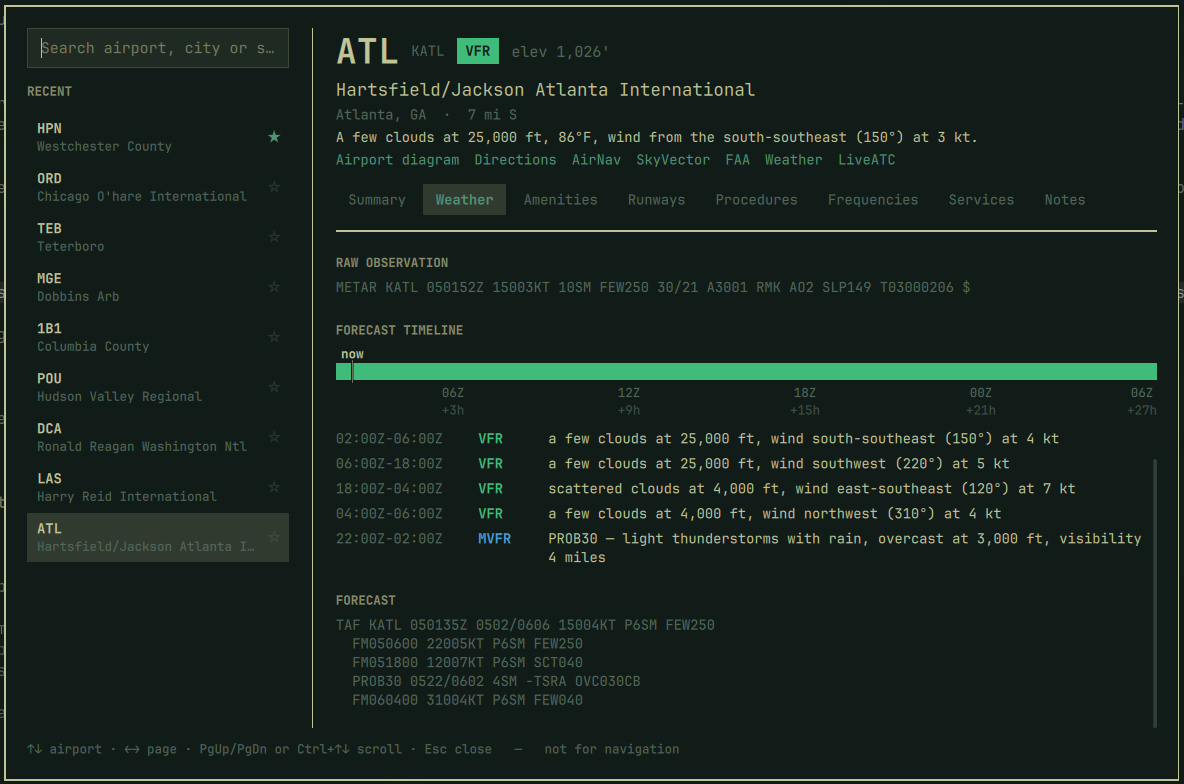
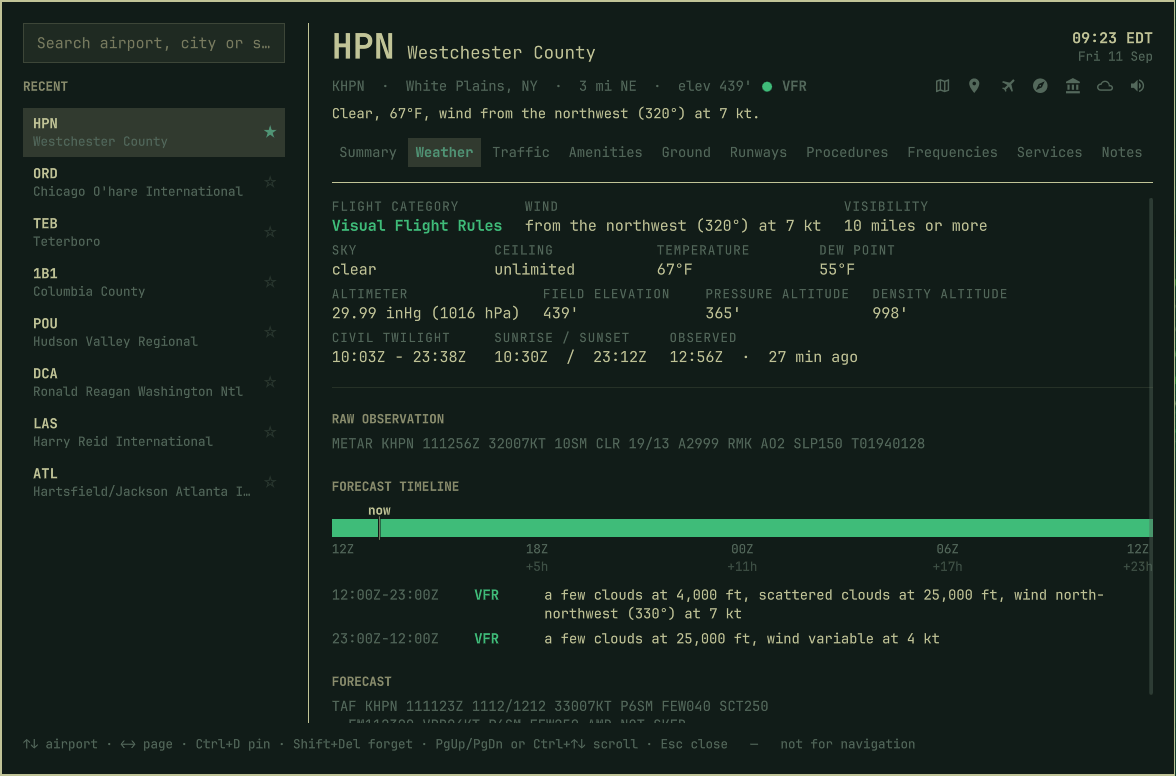
Improve README
Lead with adding a launcher, since a panel ships without one. Move the
data-source table and the development notes into docs/. Retake every
screenshot against the current build and add one of the traffic scope.

Claude-Session: https://claude.ai/code/session_01Ubz8c5KkV4dEXyyCEr6bzY

Changed region(s): [[0.0, 0.0, 1.0, 1.0], [0.7959, 0.0928, 0.9184, 0.1237], [0.8571, 0.7423, 0.9184, 0.7732]]

diff --git a/README.md b/README.md
@@ -1,7 +1,9 @@
 # Airport — an Omarchy shell plugin
 
-Look up any of 19,411 US airports, and the rest of the world besides. One summoned panel:
-type an identifier, a city or a state.
+Look up information about Airports.
+
+*Currently, detailed information is only available for Airports in
+the United States of America.*
 
 ![The Summary page](docs/summary.png)
 
@@ -9,27 +11,51 @@ type an identifier, a city or a state.
 
 ```bash
 omarchy plugin add https://github.com/derekwisong/omarchy-airport.git --enable
+```
+
+## Add a launcher
+
+**A panel has no keybinding and no menu entry of its own.** Installing and enabling the plugin
+puts nothing on your screen. Until you add one of the two below, the only way in is to type:
+
+```bash
 omarchy-shell shell toggle derekwisong.airport
 ```
 
-Needs Python 3 — standard library only, nothing to `pip install`, nothing to install as root.
 
-Approach plates and diagrams are shown inside the panel, which a stock Omarchy install already
-has what it needs for. On a system missing Qt's PDF module they open in your browser instead,
-and nothing else changes.
+### Menu entry, no keybinding
 
-### Reaching it
+Open your menu extensions file:
 
-`SUPER + SPACE` then "airport", once you copy the entry from
-[`menu-extension.jsonc`](menu-extension.jsonc) into
-`~/.config/omarchy/extensions/omarchy-menu.jsonc` (hot-reloads on save). Or bind a key:
-
-```lua
--- ~/.config/hypr/bindings.lua
-o.bind("SUPER + <key>", "Airport", "omarchy-shell shell toggle derekwisong.airport")
+```bash
+$EDITOR ~/.config/omarchy/extensions/omarchy-menu.jsonc
 ```
 
-The plugin writes nothing to your config.
+Paste this block inside the outermost `{ }`, next to whatever is already there:
+
+```jsonc
+"trigger.airport": {
+  "icon": "",
+  "label": "Airport",
+  "aliases": ["airport", "airports", "metar", "wx"],
+  "description": "Look up any airport - runways, frequencies, weather, procedures",
+  "action": "omarchy-shell shell toggle derekwisong.airport"
+},
+```
+
+Save. The menu hot-reloads. Press `SUPER + SPACE`, type `airport`, press Enter. The same block
+lives in [`menu-extension.jsonc`](menu-extension.jsonc) if you would rather copy it from a file.
+
+### Keybinding
+
+Add one line to `~/.config/hypr/bindings.lua`:
+
+```lua
+o.bind("SUPER + A", "Airport", "omarchy-shell shell toggle derekwisong.airport")
+```
+
+Save; Hyprland reloads itself. `SUPER + A` is free on a stock Omarchy — `omarchy menu
+keybindings --print` shows what yours has already spent.
 
 ### Removing it
 
@@ -38,6 +64,8 @@ omarchy plugin remove derekwisong.airport
 rm -rf ~/.cache/airport-info ~/.local/share/airport-info ~/.local/state/airport-info
 ```
 
+Then delete whichever launcher you added.
+
 ## The panel
 
 Left rail is recents, pinned first. The header — identifier, name, location, local time,
@@ -45,20 +73,18 @@ conditions and the links out — stays put on every page.
 
 | Page | What's there |
 |---|---|
-| **Summary** | Runway, tower and hours, airspace, fuel, attended hours, landing fee, sectional and centre, a forecast band, and Advisories — FAA delay programs and flight restrictions within 50 nm |
-| **Weather** | Category, present weather in words, wind, visibility, sky, ceiling, temperature, dew point, altimeter, pressure and density altitude, twilight, how old the observation is, a forecast timeline, raw METAR and TAF |
-| **Traffic** | What ADS-B hears nearby right now — arriving, departing, on the ground, passing over — as a plan-view scope centred on the field, or as a table, at 5, 10, 25, 50 or 100 nm, over the NWS reflectivity mosaic |
-| **Amenities** | Food, shops and lounges by concourse, filterable, with the gate each is at and whether it is step-free or has wi-fi, each linking to Google Maps |
-| **Ground** | How you leave: rail with the lines that call and where they run, the airport's own people mover stop by stop, buses, taxi ranks, car rental, ferries and bike share — each with the walk from the terminal |
-| **Runways** | Which runway the wind favours, then every runway per end: head and crosswind components, lengths, surface, lighting, magnetic and true alignment, ILS, VGSI, displaced thresholds, LDA, obstructions, pattern altitude |
+| **Summary** | Runway, tower, hours, airspace, fuel, landing fee, sectional and centre, a forecast band, FAA delay programs and restrictions within 50 nm |
+| **Weather** | Category, conditions in words, wind, visibility, sky, ceiling, temperature, dew point, altimeter, pressure and density altitude, twilight, a forecast timeline, raw METAR and TAF |
+| **Traffic** | What ADS-B hears nearby — arriving, departing, on the ground, passing over — as a plan-view scope or a table, at 5 to 100 nm, over the NWS reflectivity mosaic |
+| **Amenities** | Food, shops and lounges by concourse, filterable, with gate, step-free access and wi-fi, each linking to Google Maps |
+| **Ground** | How you leave: rail, the airport's own people mover, buses, taxi ranks, car rental, ferries, bike share — each with the walk from the terminal |
+| **Runways** | Which runway the wind favours, then per end: head and crosswind components, length, surface, lighting, alignment, ILS, VGSI, displaced thresholds, obstructions |
 | **Procedures** | Approaches by runway, SIDs, STARs, ODPs, minimums, hot spots |
 | **Frequencies** | The ones you'd tune, with tower hours; approach and departure filed separately |
-| **Services** | The airport's own website, attended hours, parking, customs, repairs, oxygen, beacon, wind indicator, manager, owner, FBOs with fuel prices |
-| **Notes** | Your markdown, edited in your editor, live on save |
+| **Services** | Website, attended hours, parking, customs, repairs, oxygen, manager, owner, FBOs with fuel prices |
+| **Notes** | Your markdown  notes |
 
-`i` inverts a chart for night use.
-
-![The forecast timeline](docs/weather.png)
+![Traffic near the field](docs/traffic.png)
 
 ## Keyboard
 
@@ -75,6 +101,7 @@ conditions and the links out — stays put on every page.
 | `[` `]` | On Traffic, step the range |
 | `Ctrl+W` | On Traffic, weather radar under the scope |
 | `Ctrl+O` | Open the airport's own website |
+| `i` | Invert a chart, for night use |
 | `Esc` | Back out of a chart, then close |
 
 ## The cache
@@ -82,16 +109,9 @@ conditions and the links out — stays put on every page.
 Every FAA source is a bulk publication — there is no per-airport endpoint — so the plugin
 downloads one 28-day cycle and indexes it. **About 9 seconds and 54 MB**, built the first time
 you open the panel and again when the cycle rolls over. Worldwide runway data is fetched only
-if you look up a non-US field.
-
-```bash
-apt=~/.config/omarchy/plugins/derekwisong.airport/scripts/apt.py
-python3 $apt cache status
-python3 $apt cache update
-```
-
-An airport draws in two passes: everything local in about 75 ms, then conditions and delays
-when the network answers. The panel says which it is waiting on rather than going blank.
+if you look up a non-US field. An airport then draws in two passes: everything local in about
+75 ms, then conditions and delays when the network answers, the panel saying which it is
+waiting on rather than going blank.
 
 ## The engine
 
@@ -99,111 +119,35 @@ when the network answers. The panel says which it is waiting on rather than goin
 `--json` on any subcommand.
 
 ```bash
-python3 $apt info KPOU              python3 $apt outlook KORD
-python3 $apt runways KPOU --svg     python3 $apt status DCA
-python3 $apt procedures KATL        python3 $apt wx KPOU
-python3 $apt amenities ATL          python3 $apt fbo KPOU
-python3 $apt ground KATL
-python3 $apt traffic KATL           python3 $apt traffic KPOU --radius 40
-python3 $apt radar KATL --range 25
+apt=~/.config/omarchy/plugins/derekwisong.airport/scripts/apt.py
+
+python3 $apt cache status               python3 $apt cache update
+python3 $apt info KPOU                  python3 $apt wx KPOU
+python3 $apt runways KPOU --svg         python3 $apt outlook KORD
+python3 $apt procedures KATL            python3 $apt status DCA
+python3 $apt amenities ATL              python3 $apt fbo KPOU
+python3 $apt ground KATL                python3 $apt radar KATL --range 25
+python3 $apt traffic KPOU --radius 40   python3 $apt tfr KEWR --radius 50
 python3 $apt nearby KPOU --radius 50 --fuel
-python3 $apt tfr KEWR --radius 50
 python3 $apt notes ATL add "Sky Club F is the good one"
 ```
 
 Notes are markdown in `~/.local/share/airport-info/notes/<IDENT>.md`. Recents live in
 `~/.local/state/airport-info/`.
 
-## What it will not tell you
-
-- **No NOTAMs.** No key-free source exists, so it does not have them and does not link to a
-  search that would imply it had checked.
-- **The ways out are only what OpenStreetMap has mapped.** Rail, an airport's own people
-  mover and car rental are mapped well at large fields; taxi ranks patchily; small fields
-  have nothing at all. An empty Ground page means the map is empty, not the airport.
-- **No ratings.** OpenStreetMap has no rating field. Names link to Google Maps, where they are.
-- **TFRs are located, but against the field, not your route.** Every active TFR is placed and
-  the ones within 50 nm are listed nearest first, each linked to its FAA page. A restriction
-  60 nm away on your track is real and is not on this list.
-- **The standing national notices carry no geometry.** Stadium rules, the DC restrictions and
-  the blanket security items are not in one place, so they are counted rather than measured.
-- **A ground stop is not a closed airport.** It holds flights bound for the field, at the field
-  they are leaving from, usually only those filed out of a few named centres. The line says
-  which centres and says the runways are open, because the label alone read as a closure.
-- **The radar is minutes old, and only over the lower 48.** The mosaic is base
-  reflectivity at about a kilometre per pixel, a few minutes behind the sky, and the
-  line under the scope says which scan it is. Outside the CONUS mosaic the layer is not
-  offered at all rather than drawn empty, because an empty scope reads as clear weather.
-- **Traffic is what was heard, not what is flying.** ADS-B comes from volunteer
-  receivers: an aircraft without ADS-B out, or below the horizon of every nearby receiver,
-  is simply absent. Coverage is excellent over cities and thin over small fields, so the
-  count always says *seen*, and an empty list never means an empty sky.
-- **Arriving and departing are read off the data, not filed.** ADS-B carries no origin or
-  destination, so "arriving" means low and descending near this field. A jet passing over
-  at 24,000 ft on its way down to somewhere else is listed as passing over.
-- **The local clock is not from the FAA.** No FAA product publishes a timezone in
-  structured form — not the eight NASR airport files, not the Chart Supplement index.
-  So the zone is looked up once per airport from a third party and cached; the offset is
-  then recomputed locally, so it stays right when the clocks change. An airport whose zone
-  could not be established shows no time rather than a guessed one.
-- **Outside FAA coverage it says so** rather than reporting no tower or no fuel.
-- **Delays are what the FAA reports**, not a prediction. A forecast is a forecast.
+![The forecast timeline](docs/weather.png)
 
 ## Not for navigation
 
-Built on a 28-day snapshot. Every pilot-facing output names its cycle. Verify against current
-FAA publications and get an official preflight briefing before any flight.
+**Get an official briefing before any flight.**
 
-## Development
+## Also here
 
-Symlink the repo in and the shell loads from your working tree:
-
-```bash
-ln -s "$PWD" ~/.config/omarchy/plugins/derekwisong.airport
-omarchy-shell shell rescanPlugins
-omarchy restart shell      # required to pick up QML changes
-```
-
-`omarchy plugin remove` unlinks rather than deleting the target. To test what a user gets,
-remove it and `omarchy plugin add .` instead.
-
-```bash
-./tests/smoke.sh              # ~120 checks, network required
-./tests/smoke.sh --with-osm   # adds Overpass and AirNav
-python3 tests/limits.py       # download ceilings, hosts, redirects, zip bounds
-omarchy plugin validate .
-```
-
-The rest of `tests/` runs offline and takes no arguments — `wx.py`, `geometry.py`,
-`traffic.py`, `transport.py`, `overpass.py`, and `escaping.js`, `scope.js`, `wind.js`
-under `node`.
-
-NASR rows are stored as positional arrays over the allowlists at the top of `apt.py`; a column
-not on its list reads back as absent, so add it there and rebuild. Never name a QML property
-`data` — `Item.data` is the default children list and shadows it silently.
+- [Data sources](docs/data-sources.md) — every feed the plugin reads, and its terms. All public
+  and unauthenticated: no account, no API key.
+- [Development](docs/development.md) — running from a working tree, and the test suite.
 
 ## License
 
-MIT — see [LICENSE](LICENSE). That covers the code, not the data below.
+MIT — see [LICENSE](LICENSE). That covers the code, not the data it reads.
 
-## Data sources
-
-All public and unauthenticated. No account, no API key.
-
-| Source | Provides | Terms |
-|---|---|---|
-| [FAA NASR](https://nfdc.faa.gov/) | Airports, runways, frequencies, airspace, attendance, contacts, remarks | Public domain |
-| [FAA d-TPP](https://aeronav.faa.gov/) | Approaches, SIDs, STARs, ODPs, minimums, diagrams | Public domain |
-| [FAA Chart Supplement](https://aeronav.faa.gov/) | Per-airport supplement pages | Public domain |
-| [aviationweather.gov](https://aviationweather.gov/) | METAR, TAF, flight category | NOAA, public domain |
-| [FAA NAS Status](https://nasstatus.faa.gov/) | Ground delays and stops with the centres they include, closures, advisory links | Public domain |
-| [FAA TFR](https://tfr.faa.gov/) | Active restrictions, with per-NOTAM geometry for distance | Public domain |
-| [OurAirports](https://ourairports.com/) | Worldwide airports and runways, IATA codes, search ranking | Public domain |
-| [OpenStreetMap](https://www.openstreetmap.org/) via [Overpass](https://overpass-api.de/) | Terminal food, shops, lounges and their concourses | © OpenStreetMap contributors, **ODbL** |
-| [adsb.lol](https://adsb.lol/) | Live ADS-B traffic near an airport | © adsb.lol contributors, **ODbL** |
-| [Iowa Environmental Mesonet](https://mesonet.agron.iastate.edu/), [NOAA/NWS](https://mapservices.weather.noaa.gov/) | NEXRAD base reflectivity mosaic under the scope | NWS data, public domain |
-| [timeapi.io](https://timeapi.io/) | The IANA timezone for an airport, fetched once and cached | Free public API |
-| [AirNav](https://www.airnav.com/) | FBO names and fuel prices | © AirNav, LLC — one airport on demand, cached 24h |
-| [sunrise-sunset.org](https://sunrise-sunset.org/) | Civil twilight, sunrise, sunset | Free public API |
-
-OpenStreetMap attribution appears in the CLI output and on every generated page, not only here.

diff --git a/docs/data-sources.md b/docs/data-sources.md
@@ -1,0 +1,21 @@
+# Data sources
+
+All public and unauthenticated. No account, no API key.
+
+| Source | Provides | Terms |
+|---|---|---|
+| [FAA NASR](https://nfdc.faa.gov/) | Airports, runways, frequencies, airspace, attendance, contacts, remarks | Public domain |
+| [FAA d-TPP](https://aeronav.faa.gov/) | Approaches, SIDs, STARs, ODPs, minimums, diagrams | Public domain |
+| [FAA Chart Supplement](https://aeronav.faa.gov/) | Per-airport supplement pages | Public domain |
+| [aviationweather.gov](https://aviationweather.gov/) | METAR, TAF, flight category | NOAA, public domain |
+| [FAA NAS Status](https://nasstatus.faa.gov/) | Ground delays and stops with the centres they include, closures, advisory links | Public domain |
+| [FAA TFR](https://tfr.faa.gov/) | Active restrictions, with per-NOTAM geometry for distance | Public domain |
+| [OurAirports](https://ourairports.com/) | Worldwide airports and runways, IATA codes, search ranking | Public domain |
+| [OpenStreetMap](https://www.openstreetmap.org/) via [Overpass](https://overpass-api.de/) | Terminal food, shops, lounges and their concourses | © OpenStreetMap contributors, **ODbL** |
+| [adsb.lol](https://adsb.lol/) | Live ADS-B traffic near an airport | © adsb.lol contributors, **ODbL** |
+| [Iowa Environmental Mesonet](https://mesonet.agron.iastate.edu/), [NOAA/NWS](https://mapservices.weather.noaa.gov/) | NEXRAD base reflectivity mosaic under the scope | NWS data, public domain |
+| [timeapi.io](https://timeapi.io/) | The IANA timezone for an airport, fetched once and cached | Free public API |
+| [AirNav](https://www.airnav.com/) | FBO names and fuel prices | © AirNav, LLC — one airport on demand, cached 24h |
+| [sunrise-sunset.org](https://sunrise-sunset.org/) | Civil twilight, sunrise, sunset | Free public API |
+
+OpenStreetMap attribution appears in the CLI output and on every generated page, not only here.

diff --git a/docs/development.md b/docs/development.md
@@ -1,0 +1,27 @@
+# Development
+
+Symlink the repo in and the shell loads from your working tree:
+
+```bash
+ln -s "$PWD" ~/.config/omarchy/plugins/derekwisong.airport
+omarchy-shell shell rescanPlugins
+omarchy restart shell      # required to pick up QML changes
+```
+
+`omarchy plugin remove` unlinks rather than deleting the target. To test what a user gets,
+remove it and `omarchy plugin add .` instead.
+
+```bash
+omarchy plugin validate .     # manifest schema — run it after every change
+./tests/smoke.sh              # ~120 checks, network required (--with-osm adds Overpass, AirNav)
+python3 tests/limits.py       # download ceilings, hosts, redirects, zip bounds
+```
+
+The rest of `tests/` runs offline and takes no arguments — `wx.py`, `geometry.py`,
+`traffic.py`, `transport.py`, `overpass.py`, and `escaping.js`, `scope.js`, `wind.js`
+under `node`.
+
+NASR rows are positional arrays over the allowlists at the top of `apt.py`; a column not on its
+list reads back as absent, so add it there and rebuild. Never name a QML property `data` —
+`Item.data` is the default children list and shadows it silently.
+
